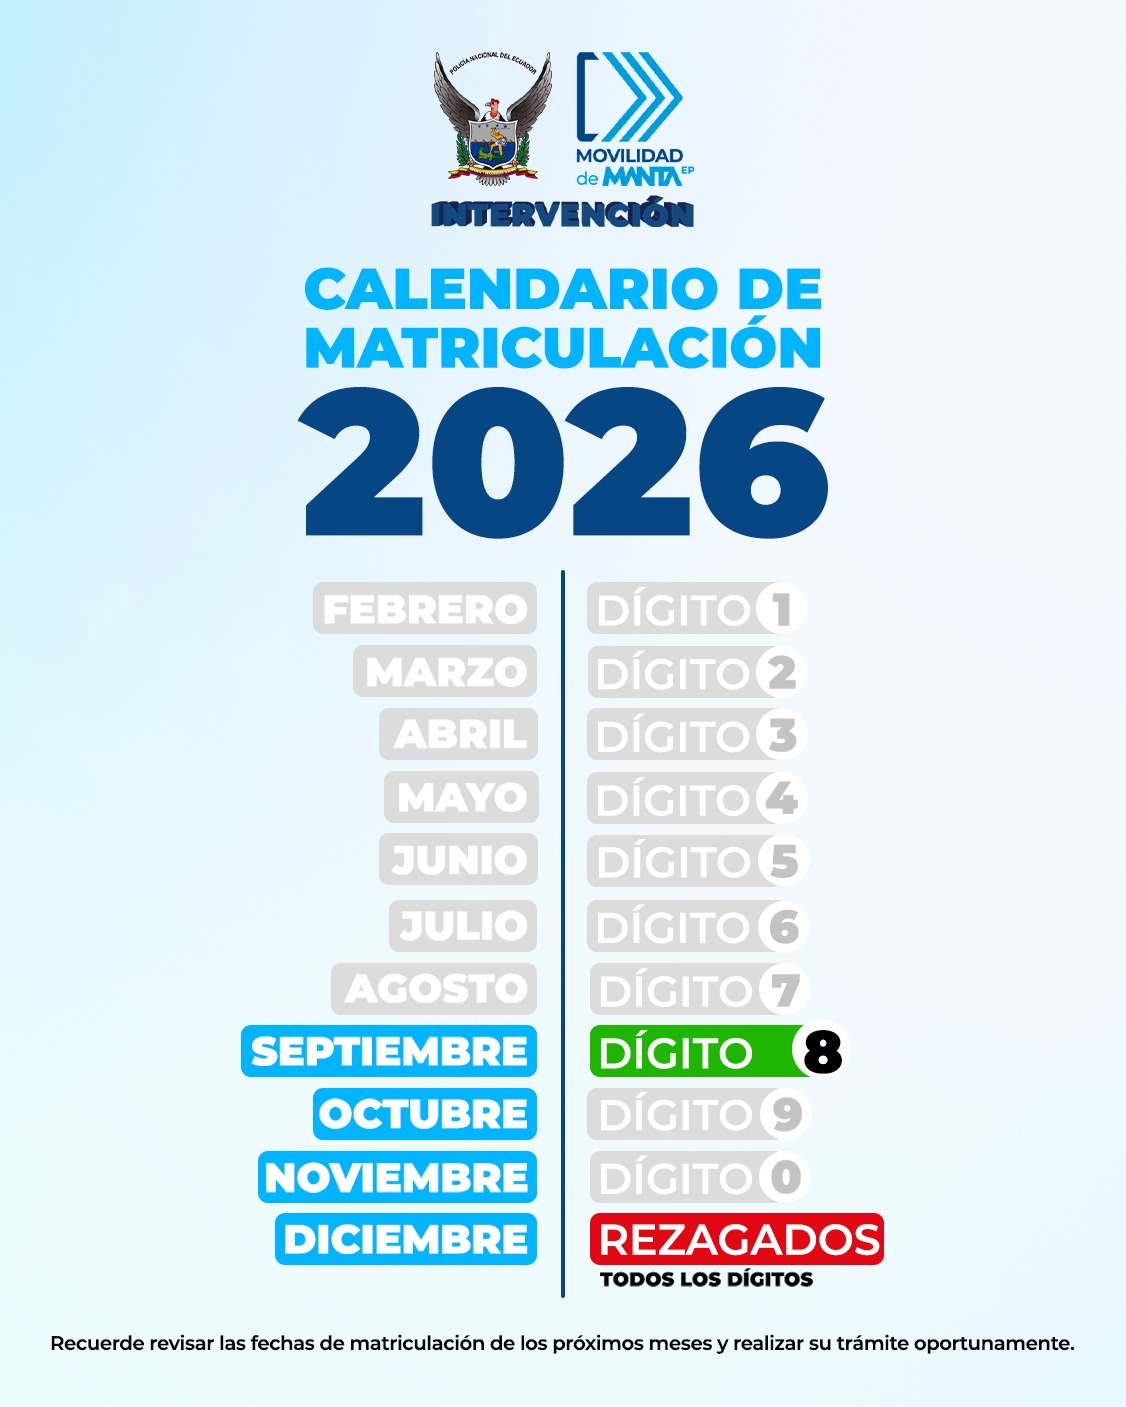
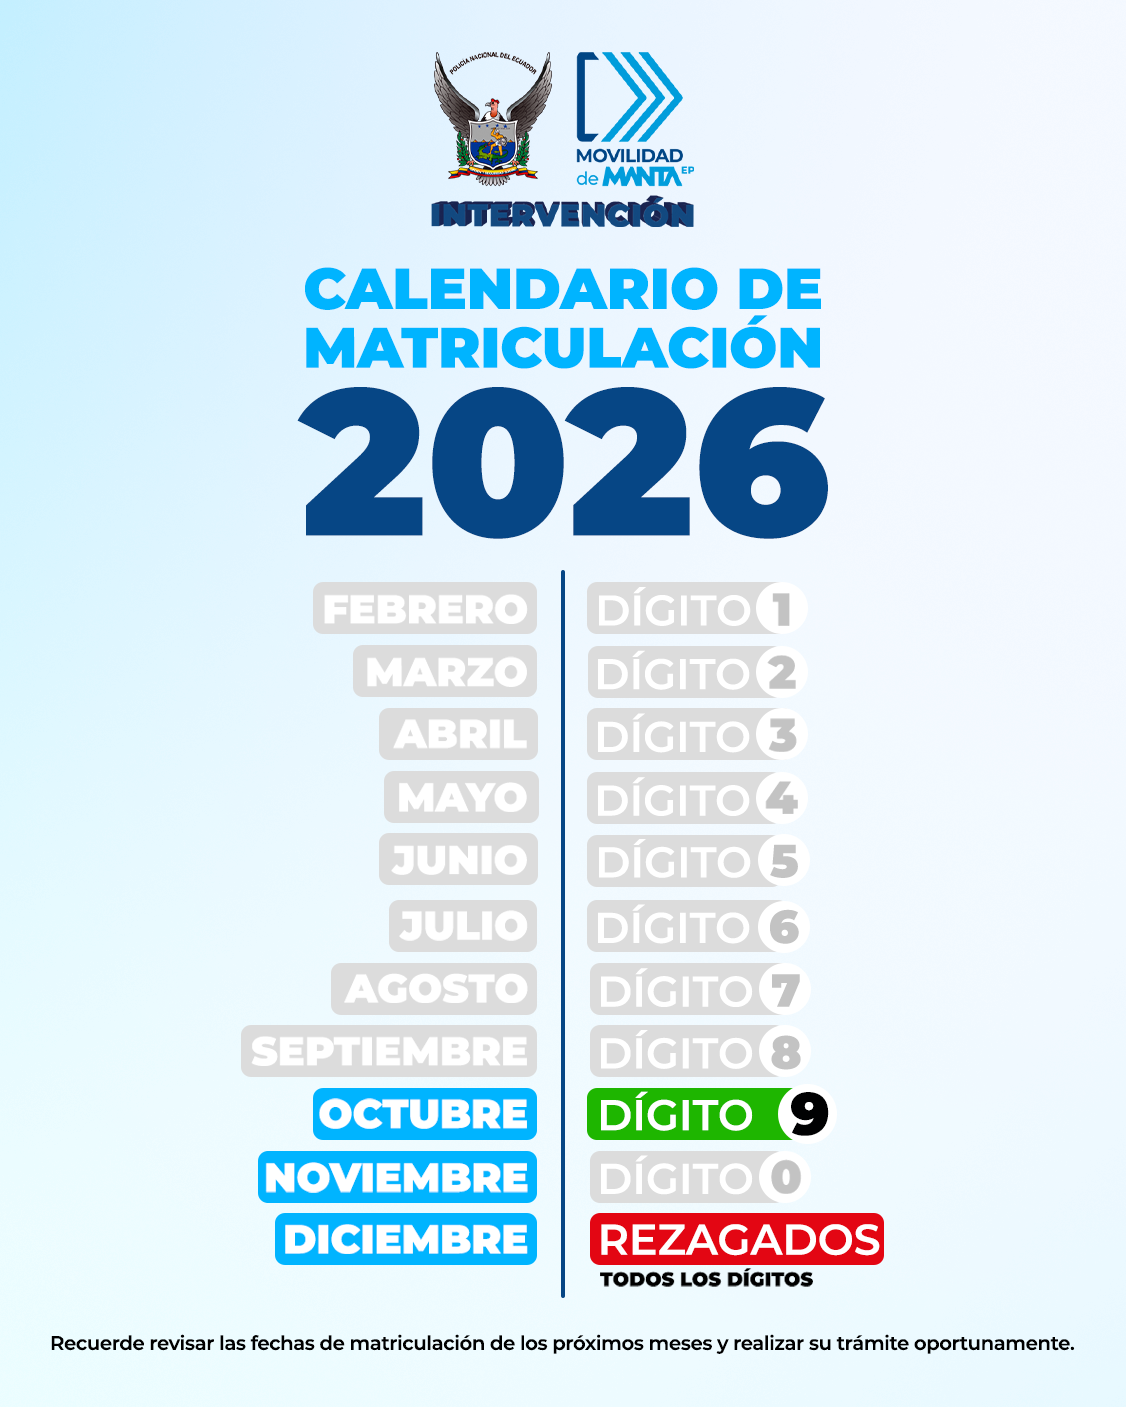
estructira organica y cambio de calendario

diff --git a/resources/css/app.css b/resources/css/app.css
@@ -1649,6 +1649,25 @@ img { display: block; max-width: 100%; }
     color: #0b4f87;
     font-weight: 900;
 }
+.structure-section {
+    width: min(100%, 1580px);
+    margin: 0 auto;
+    padding: clamp(36px, 6vw, 76px) 22px;
+}
+.structure-viewer {
+    overflow: auto;
+    margin: 0;
+    border: 1px solid var(--line);
+    border-radius: 8px;
+    background: white;
+    box-shadow: var(--shadow);
+}
+.structure-viewer img {
+    display: block;
+    width: 100%;
+    min-width: 960px;
+    height: auto;
+}
 
 @media (max-width: 1180px) {
     .site-header { grid-template-columns: auto auto; justify-content: space-between; }

diff --git a/resources/views/welcome.blade.php b/resources/views/welcome.blade.php
@@ -57,6 +57,7 @@
                 <button type="button" class="nav-dropdown-trigger" data-nav="services">Servicios</button>
                 <div class="nav-dropdown-menu nav-dropdown-menu-wide">
                     <a href="/servicios" data-route data-nav="services">Todos los servicios</a>
+                    <a href="/estructura-organica" data-route>Estructura Orgánica</a>
                     @foreach ($quickLinks as $link)
                         @php $linkUrl = $link->actionUrl(); @endphp
                         <a href="{{ $linkUrl }}" {!! $externalAttrs($linkUrl) !!} data-route>{{ $link->title }}</a>
@@ -103,6 +104,7 @@
             <div class="mt-2 rounded-lg border border-[#cfeafa] p-2">
                 <span class="block px-2 py-2 text-xs text-[#149BD7]">Servicios</span>
                 <a class="block rounded-lg px-4 py-3 hover:bg-[#eef9fd] hover:text-[#064782]" href="/servicios" data-route>Todos los servicios</a>
+                <a class="block rounded-lg px-4 py-3 hover:bg-[#eef9fd] hover:text-[#064782]" href="/estructura-organica" data-route>Estructura Orgánica</a>
                 @foreach ($quickLinks as $link)
                     @php $linkUrl = $link->actionUrl(); @endphp
                     <a class="block rounded-lg px-4 py-3 hover:bg-[#eef9fd] hover:text-[#064782]" href="{{ $linkUrl }}" {!! $externalAttrs($linkUrl) !!} data-route>{{ $link->title }}</a>

diff --git a/resources/views/public/partials/site-header.blade.php b/resources/views/public/partials/site-header.blade.php
@@ -18,6 +18,7 @@
             <button type="button" class="nav-dropdown-trigger active">Servicios</button>
             <div class="nav-dropdown-menu nav-dropdown-menu-wide">
                 <a href="/servicios" data-route>Todos los servicios</a>
+                <a href="/estructura-organica" data-route>Estructura Orgánica</a>
                 @foreach ($quickLinks as $link)
                     @php $linkUrl = $link->actionUrl(); @endphp
                     <a href="{{ $linkUrl }}" {!! $externalAttrs($linkUrl) !!} data-route>{{ $link->title }}</a>
@@ -64,6 +65,7 @@
         <div class="mt-2 rounded-lg border border-[#cfeafa] p-2">
             <span class="block px-2 py-2 text-xs text-[#149BD7]">Servicios</span>
             <a class="block rounded-lg px-4 py-3 hover:bg-[#eef9fd] hover:text-[#064782]" href="/servicios" data-route>Todos los servicios</a>
+            <a class="block rounded-lg px-4 py-3 hover:bg-[#eef9fd] hover:text-[#064782]" href="/estructura-organica" data-route>Estructura Orgánica</a>
             @foreach ($quickLinks as $link)
                 @php $linkUrl = $link->actionUrl(); @endphp
                 <a class="block rounded-lg px-4 py-3 hover:bg-[#eef9fd] hover:text-[#064782]" href="{{ $linkUrl }}" {!! $externalAttrs($linkUrl) !!} data-route>{{ $link->title }}</a>

diff --git a/resources/views/public/estructura-organica.blade.php b/resources/views/public/estructura-organica.blade.php
@@ -1,0 +1,33 @@
+<!DOCTYPE html>
+<html lang="es">
+<head>
+    <meta charset="UTF-8">
+    <meta name="viewport" content="width=device-width, initial-scale=1.0">
+    <title>Estructura Orgánica | Movilidad</title>
+    @vite(['resources/css/app.css', 'resources/js/app.js'])
+</head>
+<body class="bg-[#f8fcff] text-slate-900">
+    @include('public.partials.site-header', ['quickLinks' => $quickLinks])
+
+    <main>
+        <x-inner-hero
+            title="Estructura Orgánica"
+            crumb="Inicio / Servicios / Estructura Orgánica"
+            text="Conoce la organización institucional de la Empresa Pública Municipal Movilidad de Manta EP."
+            image="https://images.unsplash.com/photo-1497366754035-f200968a6e72?auto=format&fit=crop&w=1800&q=85"
+        />
+
+        <section class="structure-section">
+            <div class="section-head">
+                <span>Institucional</span>
+                <h2>Estructura Orgánica</h2>
+                <p>Empresa Pública Municipal “Movilidad de Manta - EP”</p>
+            </div>
+
+            <figure class="structure-viewer">
+                <img src="/assets/media/estructura-organica.png" alt="Estructura orgánica de Movilidad de Manta EP">
+            </figure>
+        </section>
+    </main>
+</body>
+</html>

diff --git a/routes/web.php b/routes/web.php
@@ -15,6 +15,7 @@ Route::get('/', PublicSiteController::class)->name('home');
 Route::get('/la-ciudad', PublicSiteController::class)->name('city');
 Route::get('/mision-vision', PublicSiteController::class)->name('mission-vision');
 Route::get('/servicios', PublicSiteController::class)->name('services');
+Route::get('/estructura-organica', [PublicContentController::class, 'estructuraOrganica'])->name('organic-structure');
 Route::get('/noticias', PublicSiteController::class)->name('news');
 Route::get('/convocatorias', [PublicContentController::class, 'convocatorias'])->name('convocatorias');
 Route::get('/convocatorias/{cmsItem}', [PublicContentController::class, 'convocatoria'])->name('convocatorias.show');

diff --git a/app/Http/Controllers/PublicContentController.php b/app/Http/Controllers/PublicContentController.php
@@ -30,6 +30,13 @@ class PublicContentController extends Controller
         ]);
     }
 
+    public function estructuraOrganica(): View
+    {
+        return view('public.estructura-organica', [
+            'quickLinks' => $this->quickLinks(),
+        ]);
+    }
+
     public function show(CmsItem $cmsItem): View
     {
         abort_unless($cmsItem->status === 'published', 404);
